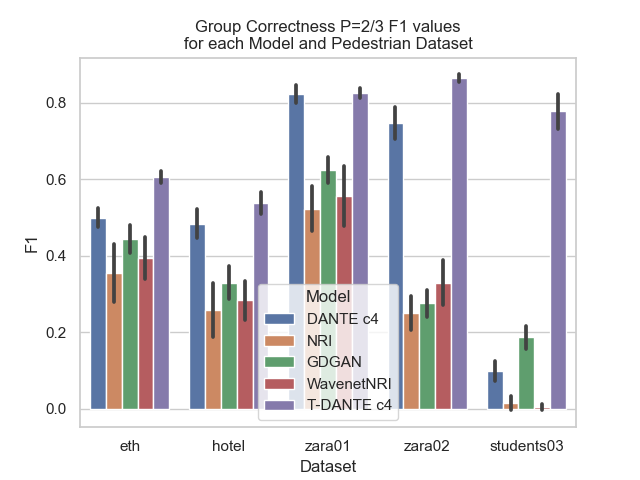
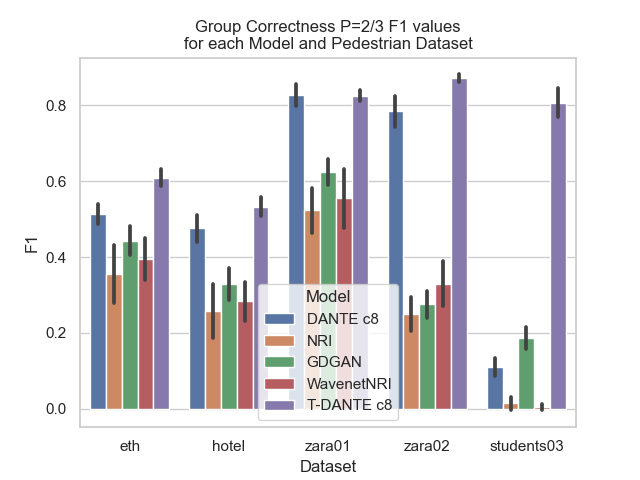
keep c8 for pedestrian datasets

diff --git a/models/plotter.py b/models/plotter.py
@@ -305,7 +305,7 @@ if __name__ == '__main__':
                           pede_nri_results,
                           pede_gdgan_results,
                           pede_wavenet_results, pede_tdante_results])
-    bas_pede = bas_pede[~bas_pede['name'].isin(['DANTE c8', 'T-DANTE c8'])]
+    bas_pede = bas_pede[~bas_pede['name'].isin(['DANTE c4', 'T-DANTE c4'])]
     bas_sim = pd.concat([sim_wavenet_results,
                          sim_nri_results,
                          sim_gdgan_results,
